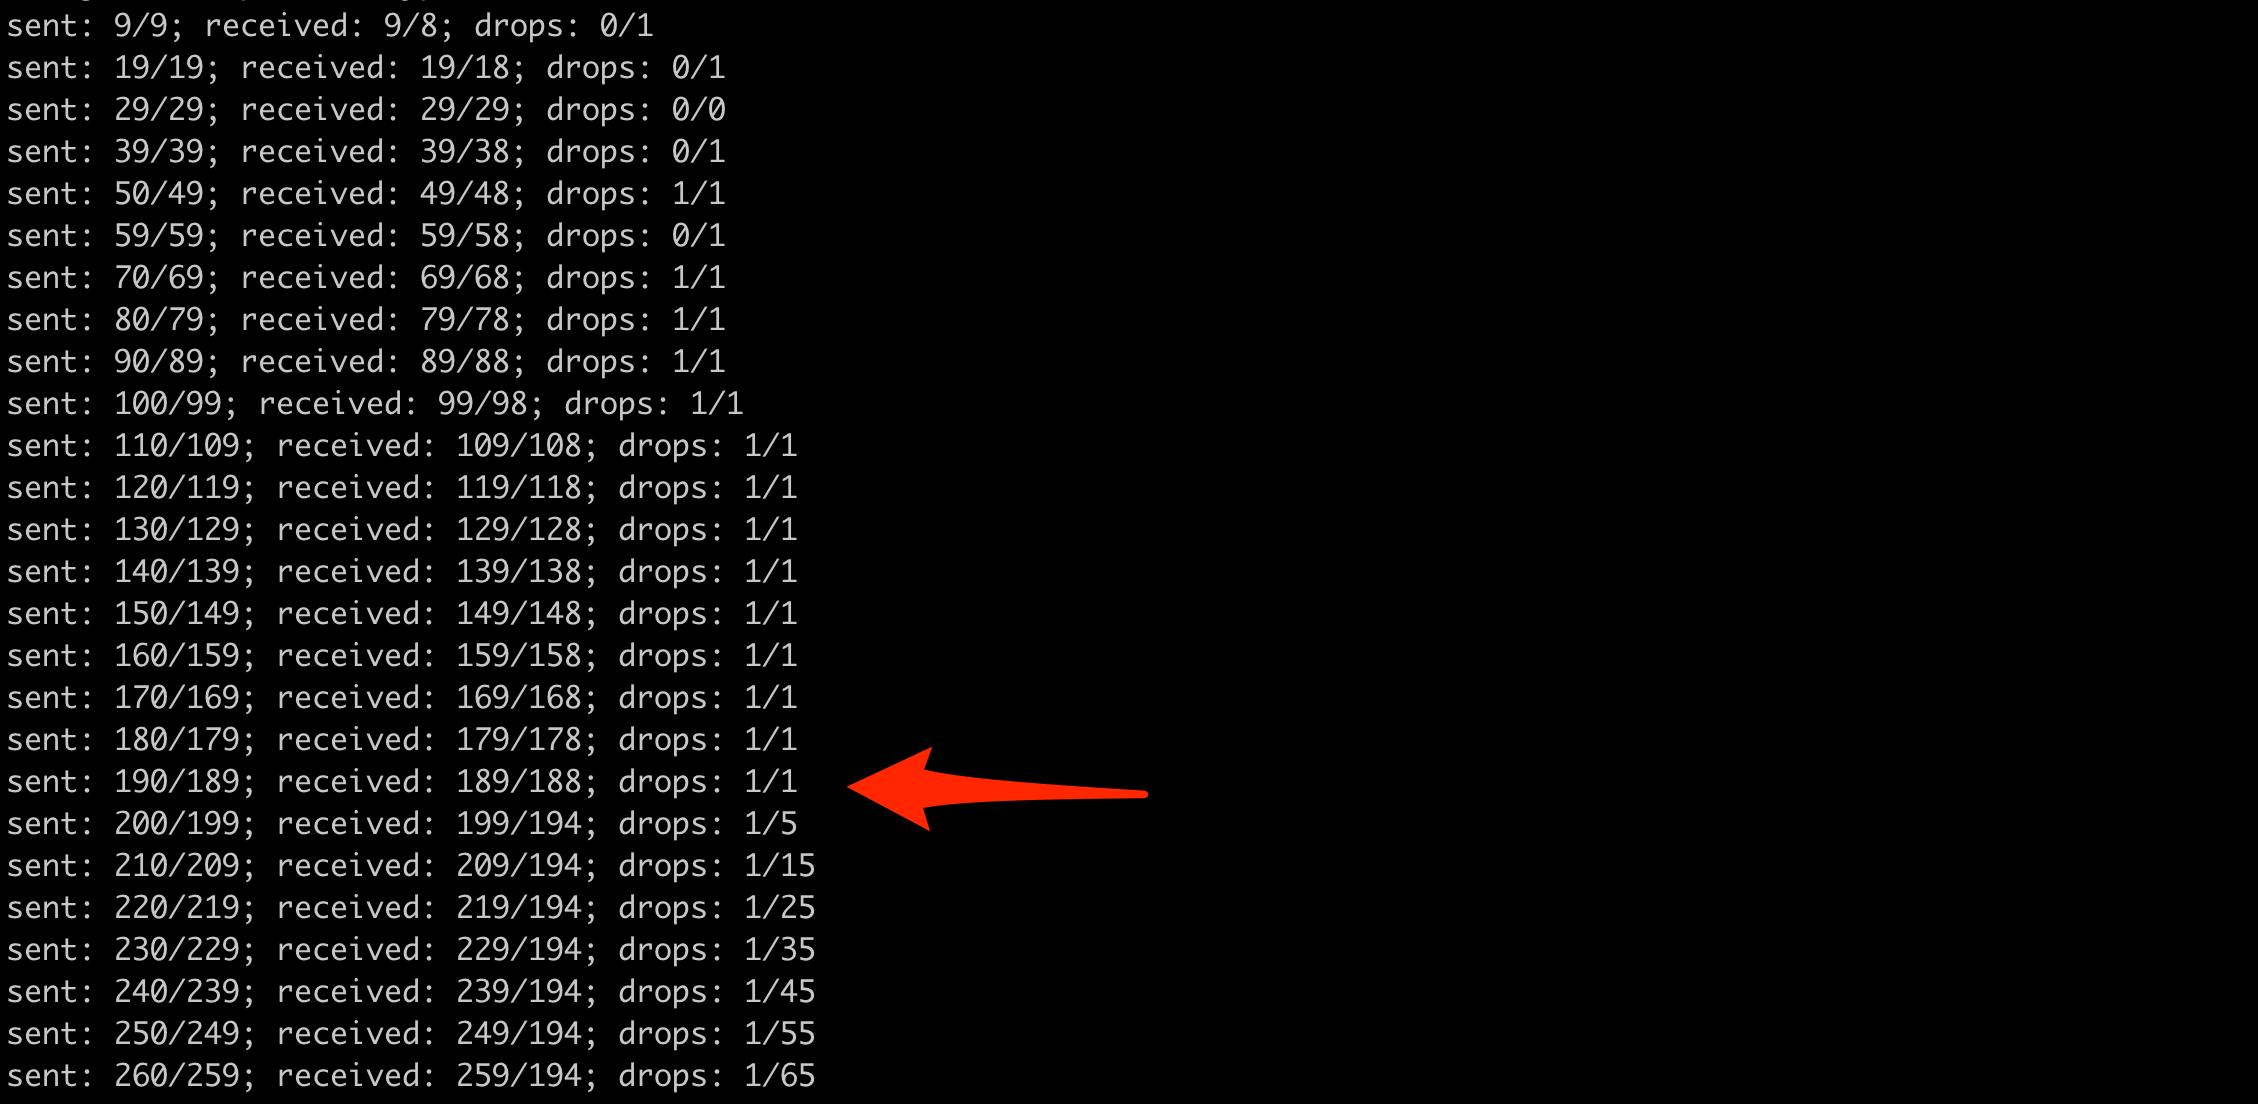
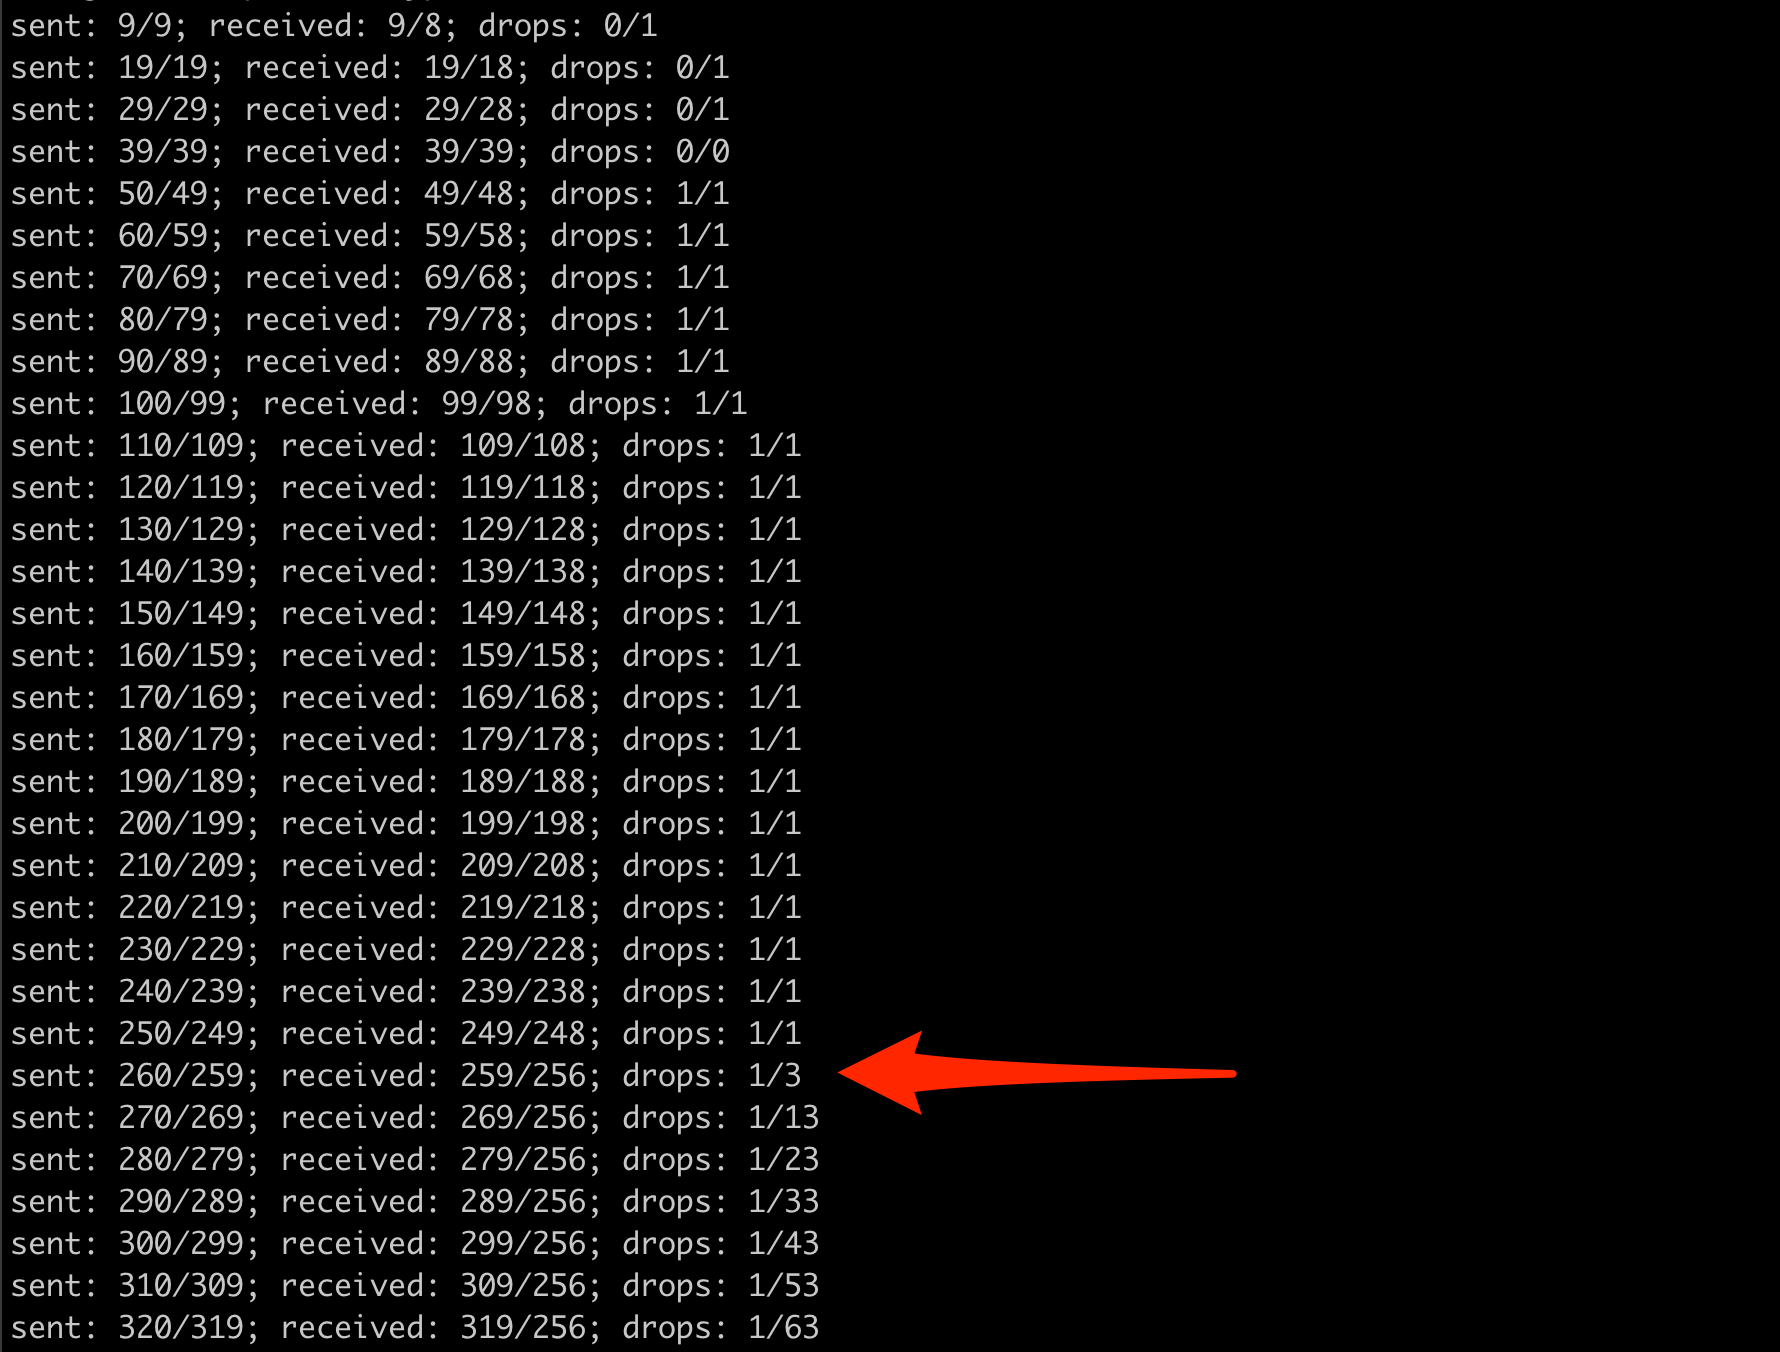
Fixup

Changed region(s): [[0.0, 0.0, 0.5253, 1.0], [0.4326, 0.7699, 0.7107, 1.0]]

diff --git a/documentation/performance_metrics.md b/documentation/performance_metrics.md
@@ -1,86 +1,83 @@
-# Performance metrics
+# KEA DHCP Performance testing
 
 This documentation contains the results of the load test conducted on the 8th of January 2021. 
-[Kea DHCP V1.8](https://github.com/ministryofjustice/staff-device-dhcp-server/blob/main/dhcp-service/Dockerfile) was the subject under test which is hosted on [AWS infrastructure](https://github.com/ministryofjustice/staff-device-dns-dhcp-infrastructure). The load testing tool that used is [perfdhcp](#PerfDHCP).
+[Kea DHCP V1.8](https://github.com/ministryofjustice/staff-device-dhcp-server/blob/main/dhcp-service/Dockerfile) was the subject under test which is hosted on [AWS infrastructure](https://github.com/ministryofjustice/staff-device-dns-dhcp-infrastructure). The load testing tool that was used is [perfdhcp](#PerfDHCP).
 
-## KEA Configuration
+## Current Configuration
 
-KEA is running in [hot-standby mode](https://gitlab.isc.org/isc-projects/kea/-/wikis/designs/High-Availability-Design), with a Primary and Standby server. It uses a MYSQL backend and has multi-threading enabled.
+- Multi-Threading is enabled on the KEA servers
+- High Availibility configuration for KEA to run in [hot-standby mode](https://gitlab.isc.org/isc-projects/kea/-/wikis/designs/High-Availability-Design), with a Primary and Standby server
+- KEA runs on ECS Fargate and has 2GB Memory and 1GB CPU available
+- MYSQL lease backend. Running as a [db.t2.large](https://aws.amazon.com/rds/instance-types/) AWS RDS instance
+- Production configuration file has been loaded and contains the following:
+  - 142 Sites
+  - 829 Subnets
+  - 14404 reservations
+  - At least two client classes per subnet
 
-This performance test was run on a KEA instance with a JSON configuration file loaded, which included:
+## Considerations
 
-- 142 Sites
-- 829 Subnets
-- 14404 reservations
-- At least two client classes per subnet
+- Tests are run from a remote site in Corsham, this may introduce network latency
+- A lease request is considered the entire DORA DHCP flow
+- 10 tests were run, the highest and lowest results were eliminated and the remaining average was used
+- The KEA configuration file is pulled from an S3 bucket every 5 minutes. It is compared to the current configuration and is loaded if any changes were detected. This seems to not impact performance.
+- KEA publishes custom metrics to CloudWatch every 10 seconds, resource usage for this is minimal and not visible on the metrics below. 
+- The perfdhcp testing tool sometimes exits before the last response packet is delivered, skewing the results by 1. This does not affect the findings of this test and was taken into consideration.
 
-The configuration file is reloaded every 5 minutes to support self service from the [Admin Portal](https://github.com/ministryofjustice/staff-device-dns-dhcp-admin), which may show up as small spikes on the metrics.
+## Test Command
 
-The primary KEA instance also publishes metrics every 10 seconds, but this does not seem to have any impact on the instance resources.
+[Perfdhcp version 1.8.1](https://kea.readthedocs.io/en/latest/man/perfdhcp.8.html) was used to do the performance test.
 
-#### NOTE:
+It rapidly ramps up traffic in increments of 10 requests per second.
+The drop rate was manually observed to establish the capabilities of the server.
 
-Subnets are all configured to /24 which contains 256 available IPs.
-For the purposes of this test, the subnet was expanded to allow leasing more than 256 IPs.
-The remote testing site was configured to have a /16 range, which gives 65,536 available IPs.
-
-## How to run these tests
-
-These tests are designed to run from a remote site to give a realistic indication of the current performance of the KEA DHCP server as it will be used in production.
-
-To gain access to the remote testing instance, please follow the steps in the [Corsham Testing](./corsham-test.md) documentation.
-
-The remote VM has perfdhcp installed and [scripts](https://kea.readthedocs.io/en/latest/man/perfdhcp.8.html) to run these tests.
-
-## Traffic Generation
-
-### PerfDHCP
-
-[Perfdhcp version 1.8.1](https://kea.readthedocs.io/en/latest/man/perfdhcp.8.html) was used and is the recommended load testing tool that is able to lease a large number of IPs.
-
-It gradually ramps up traffic in increments of an additional 10 RPS. The drop rate is manually observed to establish the upper bound.
-
-The following command was run to generate the traffic.
+The following command was run from a remote site in Corsham.
 
 ```sh
-perfdhcp -4 $ENDPOINT_IP -r10 -R 5000 -W3 -t1 -d2
+perfdhcp -4 $DHCP_SERVICE_IP -r10 -R 5000 -W3 -t1 -d3
 ```
 
-### AWS Service metrics
+The drop time is set to 3 seconds with the `-d` flag, any requests taking more than 3 seconds is considered a failed request.
 
-#### ECS
+## Load test results - 8th January 2021
 
-KEA runs on ECS Fargate with the following resources configured:
+The test results shows that KEA can handle approximately 256 requests per second. This test was run multiple times and the results were consistent.
 
-- 2GB Memory
-- 1GB CPU
+### Hypothetical usage scenario
 
-#### RDS
+If 20k devices were to use this service in a working day (8 hours), with a lease time of 1 day, it would result in 0.7 lease requests per second.
+This number only applies when traffic is spread evenly over the 8 hours and it is understood that there will be peaks and dips in traffic throughout the day.
 
-The backend is a mysql database managed by AWS. There is only one database and no replication configured.
+At the time of writing, there are no volumetrics for the existing DHCP servers, which means it's not possible to compare this directly to the new service.
 
-The database instance size is a [db.t2.large](https://aws.amazon.com/rds/instance-types/)
-
-## Load test results - 8th January 20201
-
-The test results shows that KEA can handle roughly 189 requests per second. This test was run multiple times and the results were consistent.
+```
+20000 / 8 / 60 / 60 = 0.69
+```
 
 ![ECS](images/performance_testing/test_results.png)
 
-It seems that there are no infrastructure bottlenecks and that Kea itself is unable to process more than this.
+### DORA
 
-There was hardly a noticable effect on the container resources such as RAM and CPU.
+![DORA](images/performance_testing/dora.png)
 
-#### ECS - Elastic Container Service
+### ECS - Elastic Container Service
 
 ![ECS](images/performance_testing/ecs.png)
 
-#### RDS - Relational Database Service
+### RDS - Relational Database Service
 
 ![RDS](images/performance_testing/rds_cpu.png)
 
 ![RDS](images/performance_testing/rds_iops.png)
 
-#### NLB - Network Load Balancer
+### NLB - Network Load Balancer
 
 ![NLB](images/performance_testing/nlb.png)
+
+## How to run these tests
+
+To gain access to the remote test site, please see [Corsham Testing](https://github.com/ministryofjustice/staff-device-dns-dhcp-infrastructure/blob/main/documentation/corsham-test.md).
+
+
+Changing instance size did not increase upper bound
+How many devices can be supported
